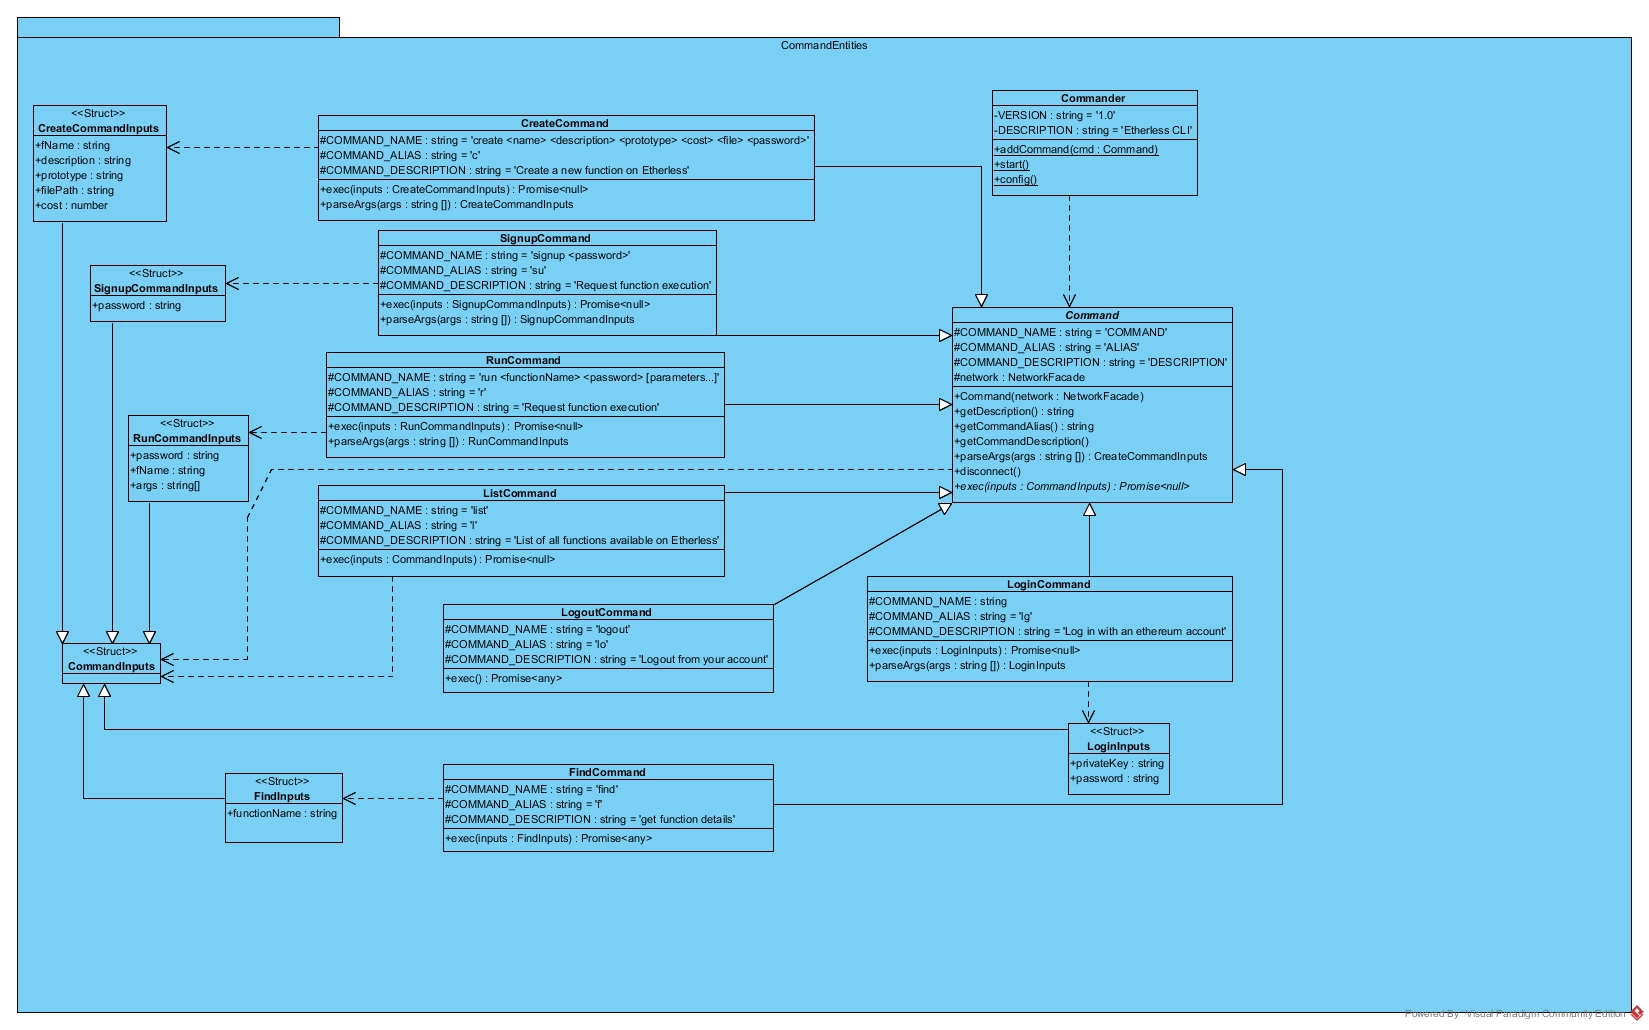
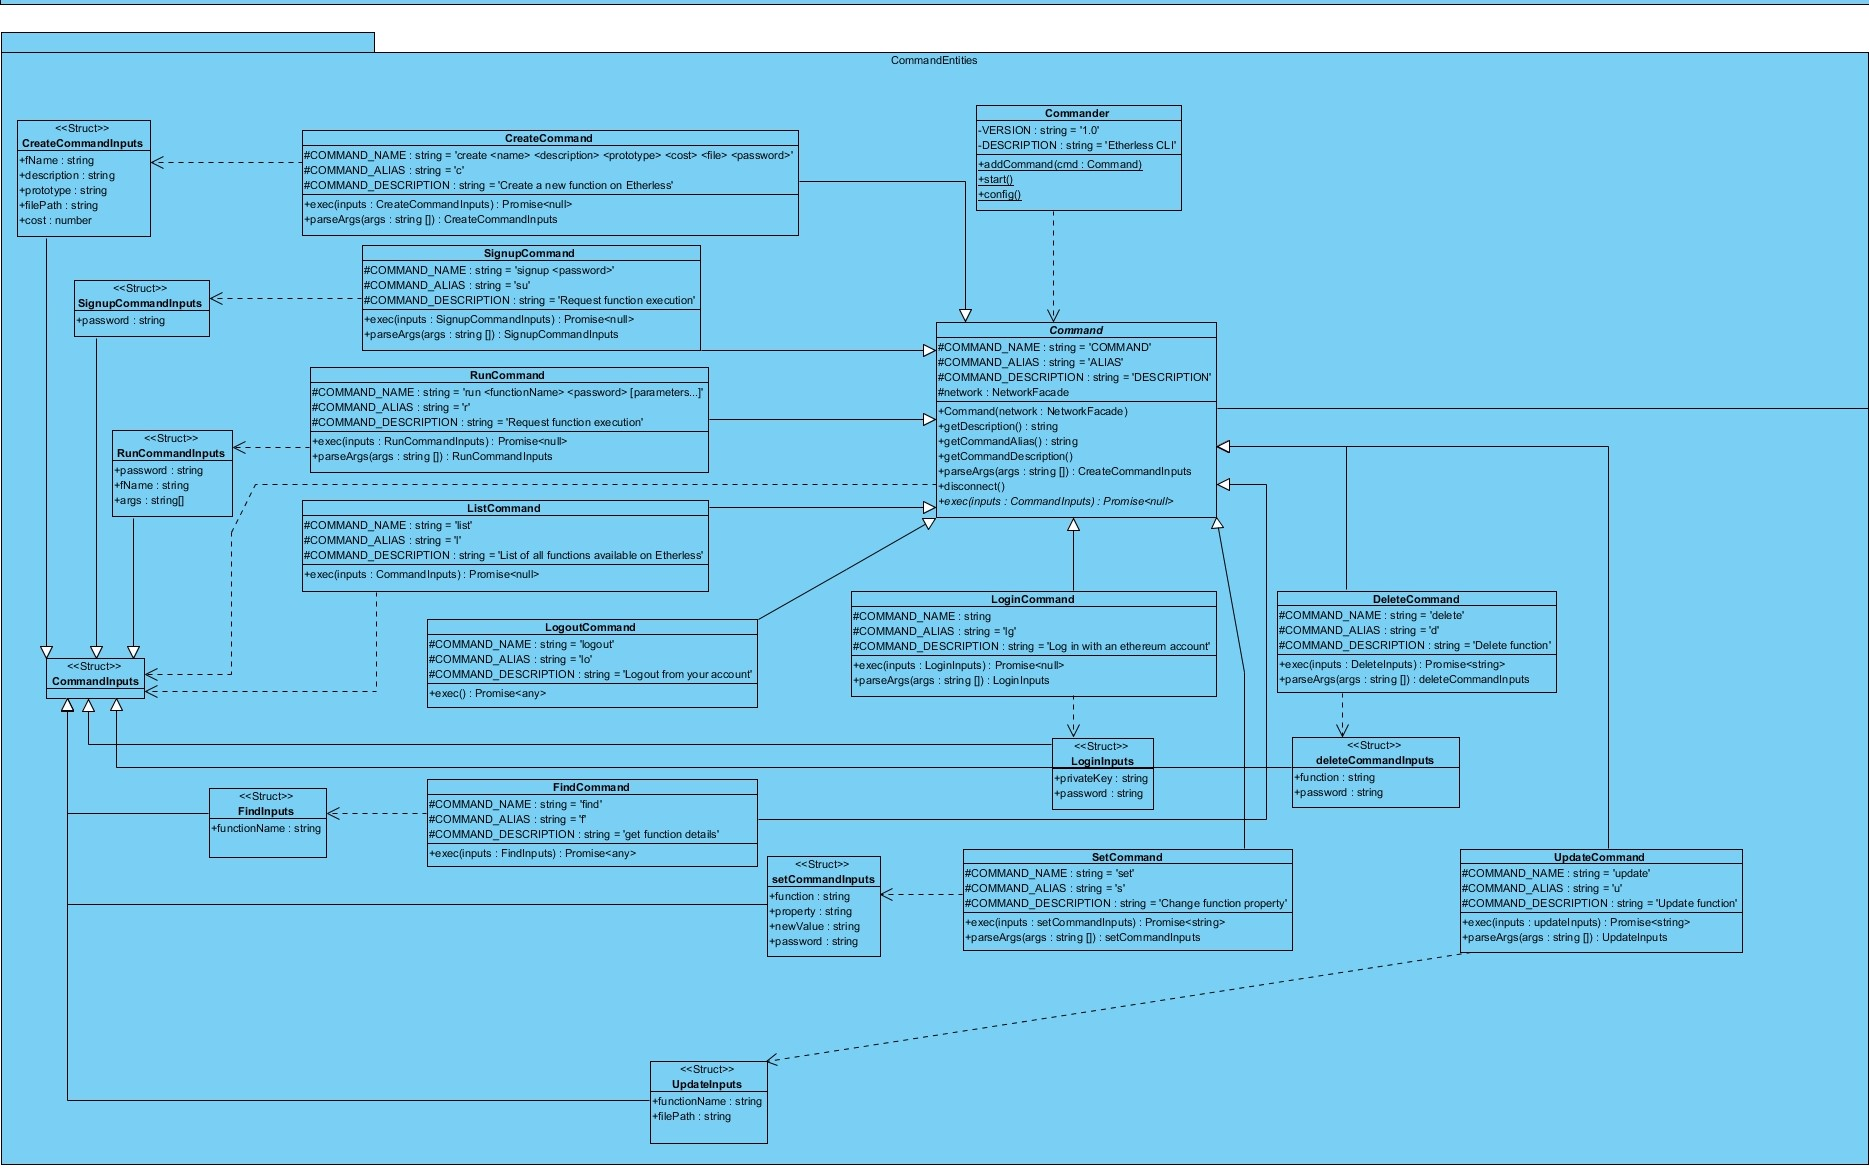
Sistemato developer manual con metodi e diagrammi aggiornati (pronto per RA)

Changed region(s): [[0.0, 0.0, 1.0, 1.0], [0.4948, 0.0932, 0.7113, 0.1864], [0.7732, 0.7146, 0.9278, 0.8078]]

diff --git a/esterni/developerManual/res/sections/etherless-server'sArchitecture.tex b/esterni/developerManual/res/sections/etherless-server'sArchitecture.tex
@@ -15,6 +15,8 @@ Functions module contains all the command functions which are stored on AWS Lamb
 In particular, here will be implemented three files corresponding these three following commands:
 \begin{itemize}
 	\item \textbf{createFunction (FunctionDeployer):} creates a new AWS Lambda function with the JavaScript resource uploaded by developer users from CLI\glo;
+	\item \textbf{deleteFunction (FunctionDestroyer):} deletes an AWS Lambda function already uploaded by the same developer;
+	\item \textbf{updateFunction (FunctionUpdater):} updates an AWS Lambda function already existing on \textit{Etherless};
 	\item \textbf{removeFunction:} deletes the corresponding Lambda function on AWS Lambda;
 	\item \textbf{updateFunction:} used to update the implementation of a function already deployed by a user on AWS Lambda.
 \end{itemize}
@@ -30,21 +32,21 @@ This component runs persistently listening events from Smart Contract deployed o
 
 
 \subsection{Methods}
-\subsubsection{Runner}
-\begin{itemize}
-	\item \textbf{config:} Creates the smart-contract instance downloading the corresponding \textit{ABI\glo} and then calls start method;
-	\item \textbf{start:} Start to listen Ethereum\glo events emitted by Etherless-smart, calls "executeLambdaFunctionMethod" to run the Lambda requested and then returns the response;
-	\item \textbf{getAbi:} retrieves and parses the smart-contract \textit{ABI\glo} from Etherscan;
-	\item \textbf{executeLambdaFunction:} invoke the AWS Lambda function requested;
-	\item \textbf{transactContractMethod:} calls a smart-contract method through a transaction.
-\end{itemize}
-\subsubsection{AWSInstance}
-\begin{itemize}
-	\item \textbf{getLambda:} returns a new AWS Lambda object;
-	\item \textbf{getRuntime:} returns the version of the AWS runtime;
-	\item \textbf{getRole:} returns the AWS Lambda function's execution role;
-	\item \textbf{getTimeout:} returns AWS Lambda function's \textit{timeout\glos}.
-\end{itemize}
+%\subsubsection{Runner}
+%\begin{itemize}
+%	\item \textbf{config:} Creates the smart-contract instance downloading the corresponding \textit{ABI\glo} and then calls start method;
+%	\item \textbf{start:} Start to listen Ethereum\glo events emitted by Etherless-smart, calls "executeLambdaFunctionMethod" to run the Lambda requested and then returns the response;
+%	\item \textbf{getAbi:} retrieves and parses the smart-contract \textit{ABI\glo} from Etherscan;
+%	\item \textbf{executeLambdaFunction:} invoke the AWS Lambda function requested;
+%	\item \textbf{transactContractMethod:} calls a smart-contract method through a transaction.
+%\end{itemize}
+%\subsubsection{AWSInstance}
+%\begin{itemize}
+%	\item \textbf{getLambda:} returns a new AWS Lambda object;
+%	\item \textbf{getRuntime:} returns the version of the AWS runtime;
+%	\item \textbf{getRole:} returns the AWS Lambda function's execution role;
+%	\item \textbf{getTimeout:} returns AWS Lambda function's \textit{timeout\glos}.
+%\end{itemize}
 \subsubsection{Runner}
 \begin{itemize}
 	\item \textbf{config:} Creates the smart-contract instance downloading the corresponding \textit{ABI\glo} and then calls start method;
@@ -55,9 +57,21 @@ This component runs persistently listening events from Smart Contract deployed o
 \end{itemize}
 \subsubsection{FunctionDeployer}
 \begin{itemize}
-	\item \textbf{createFunction:} calls prepareFunctionToStore and uploadFunction methods and then return the upload's result;
-	\item \textbf{uploadFunction} upload effectively a file.js containing the user's function.
-
+	\item \textbf{createFunction:} instantiate the FunctionDeployer class and returns the ARN of deploy;
+	\item \textbf{uploadFunction:}  sends the request to the AWS service and encapsulate it in a promise;
+	\item \textbf{prepareFunctionToStore:} prepare the data structure for the request.        .
+\end{itemize}
+\subsubsection{FunctionDestroyer}
+\begin{itemize}
+	\item \textbf{deleteFunction:} instantiate the class FunctionDestroyer and returns the result;
+	\item \textbf{letFunctionDelete:}  parse the data and sends the delete request;
+	\item \textbf{prepareFunctionToDelete:} prepare the data structure for the request.        .
+\end{itemize}
+\subsubsection{FunctionUpdater}
+\begin{itemize}
+	\item \textbf{updateFunction:} instantiate the class FunctionUpdater and returns the result;
+	\item \textbf{letUpdateFunction:}  prepare and sends the request to the AWS service for the upload of a new function;
+	\item \textbf{prepareFunctionToUpdate:} prepares the data structure for the update.        .
 \end{itemize}
 \subsubsection{Extension}
 Extendability of the etherless-server component can come as a development of the \textit{Runner} or a new function added to the ones available on the serverless functions environment.\\\\Developing a new serverless function means creating its own file and logic and exposing the function itself to the serverless environment. The serverless framework keeps track of all the functions through the .yml configuration file. Adding a to the configuration will mean that on the next deploy, a lambda function will be created and be made pubicly available on the http endpoint.

diff --git a/esterni/developerManual/res/sections/etherless-cli'sArchitecture.tex b/esterni/developerManual/res/sections/etherless-cli'sArchitecture.tex
@@ -46,12 +46,16 @@ Another disadvantage is that if a new developer need a new functionality from an
     \item \textbf{signup}: registers a new user on the system;
     \item \textbf{logon}: logs in a new user;
     \item \textbf{logout}: logs out of the system currently logged user;
+    \item \textbf{getUserAccount:} returns user's credentials;
+    \item \textbf{callFunction:} executes the function on the \textit{Ethereum} network;
+    \item \textbf{createFunction}: uploads on the AWS endpoint the required function and register it on the eth network through the etherless-smart component
 	\item \textbf{getAllLoadedFunction}: returns the list of all available contract methods;
-    \item \textbf{callFunction}: calls the methods of the etherless-smart component; all requests to the smart contract goes through this method;
-    \item \textbf{runFunction}: requests execution of a remote function;
-    \item \textbf{createFunction}: uploads on the AWS endpoint the required function and register it on the eth network through the etherless-smart component;
-    \item \textbf{getPastLog}: return a list of past actions taken by the user;
-    \item \textbf{getCostOfFunction}: retrieves from the smart contract the cost of a specific function loaded on the service;
+	\item \textbf{getFunctionDetails:} retrieves from the smart contract the details about the requested function;
+	\item \textbf{getCostOfFunction}: retrieves from the smart contract the cost of a specific function loaded on the service;
+	\item \textbf{runFunction}: requests execution of a remote function;
+	\item \textbf{setFunctionProperty:} updates function properties like cost, description and prototype;
+	\item \textbf{deleteFunction:} deletes a function;
+	\item \textbf{updateFunction:} updates the user's function;    
     \item \textbf{disconnect}: disconnects the application from the network.
 \end{itemize}
 \paragraph{SessionInterface}
@@ -62,30 +66,30 @@ Another disadvantage is that if a new developer need a new functionality from an
     \item \textbf{signTransaction}: signs the provided transaction with logged user account;
     \item \textbf{isUserSignedIn}: checks if there is a singed in user;
     \item \textbf{getUserAddress}: retrieves the user address;
-    \item \textbf{getBalance}:retrieves the balance of the logged in user account.
+    \item \textbf{getBalance}: retrieves the balance of the logged in user account;
+    \item \textbf{getAccount:} returns the account information.
 \end{itemize}
 \paragraph{ContractInterface}
 \begin{itemize}
-    \item \textbf{getListOfFunctions}: retrieves all the available contract's methods;
-    \item \textbf{getArgumentsOfFunction}: returns all the parameter required to run the requested contract method;
-    \item \textbf{isTheFunctionPayable}: returns weather a contract method is needs to receive ethers or not;
-    \item \textbf{estimateGasCost}: returns an estimate of how much gas is needed to perform a contract method call;
-    \item \textbf{getFunctionTransaction}: builds a transaction object related to a contract method call;
+	\item \textbf{isTheFunctionPayable:} returns if the requested function is payable;
+	\item \textbf{estimateGasCost}: returns an estimate of how much gas is needed to perform a contract method call;
+	\item \textbf{getFunctionTransaction}: builds a transaction object related to a contract method call;
+	\item \textbf{decodeResponse:} get in input the function with the relative output and decode the ABI response;
     \item \textbf{getLog}: returns past actions of the given eth account;
-    \item \textbf{getCallable}: maps a contract method name to a its callable form through the network;
     \item \textbf{getSignal}: start listening for a network event.
 \end{itemize}
 \paragraph{NetworkInterface}
 \begin{itemize}
-    \item \textbf{getListOfFunctions}: retrieves all the available contract's methods;
-    \item \textbf{getArgumentsOfFunction}: returns all the parameter required to run the requested function.
+	\item \textbf{disconnect:} terminate the connection to the provider;
+    \item \textbf{sendTransaction}: this method sends an signed transaction;
+    \item \textbf{callMethod}: used to ask at the contract the execution of non payable methods;
+    \item \textbf{postRequest:} this method is used for postRequest with json body.
 \end{itemize}
 \paragraph{NetworkUtils}
 \begin{itemize}
-    \item \textbf{getEtherlessFacade:}: returns a shared instance of the network interface;
-    \item \textbf{checkABIUpdate}: returns weather there is the need of updating smart contract ABI;
+    \item \textbf{getEtherlessNetworkFacadeInstance:}: initialize the NetworkFacade and returns an instance;
     \item \textbf{updateABI}: gets an updated copy of the contract ABI from a remote source;
-    \item \textbf{getABIFromFile}: returns a contract ABI retrieved from a local file.
+    \item \textbf{getAbi}: checks if the ABI is due for an update or returs the local one.
 \end{itemize}
 \newpage
 \subsection{Command Entities}

diff --git a/esterni/developerManual/res/sections/etherless-smart'sArchitecture.tex b/esterni/developerManual/res/sections/etherless-smart'sArchitecture.tex
@@ -26,7 +26,10 @@ Each contract class is composed by a set of methods.
 	\item \textbf{listFunctions:} returns a structured list of all functions available and the all associated information;
 	\item \textbf{findFunction:} returns all according information in regards to a single function, identified by its name;
 	\item \textbf{createFunction:} handles the creation of a new function by checking all input requirements and sending it into the storage;
-	\item \textbf{runFunctions:} handles the request of a function execution requested by a user; it's a payable function, which means credits will credited to the contract from the caller wallet;
+	\item \textbf{runFunction:} handles the request of a function execution requested by a user; it's a payable function, which means credits will credited to the contract from the caller wallet;
+	\item \textbf{setFunctionProperty:} updates a given property of a function to a new value. Only function owners can change properties;
+	\item \textbf{deleteFunction:} deletes a function from the storage. Only function owners can delete their functions;
+	\item \textbf{getArn:} return the remote resource identifier. Only function owners can request the resource identifier for their functions;
 	\item \textbf{moveCurrencies:} when a function execution is requested, this method will handle credit split between the involved parties;
 	\item \textbf{sendResponse:} an entry point for our server component which is used to forward a function request result to the client side;
 	\item \textbf{costOfFunction:} returns the cost of a given function, identified by its name; necessary to identify the amount of credits that need to be sent out while requesting execution;
@@ -40,7 +43,11 @@ Each contract class is composed by a set of methods.
 	\item \textbf{existsFunction:} checks if a function with a given name is available in the storage;
 	\item \textbf{storeFunction:} stores a function by setting accordingly values inside the storage properties;
 	\item \textbf{getFunctions:} returns a list of all stored functions;
+	\item \textbf{setFunctionProperty:} updates a function property;
+	\item \textbf{ifPropertyExists:} checks if a given propery name matches one that is part of the function;
 	\item \textbf{costOfFunction:}  returns the cost of a function;
+	\item \textbf{findIndexName:} searches for the position of a function;
+	\item \textbf{deleteFunction:} removes a function from the storage permanently. 
 	\item \textbf{buildFunction:} a utility method for properly formatting a function data structure.
 \end{itemize}
 \subsubsection{Utils}
@@ -48,6 +55,7 @@ Each contract class is composed by a set of methods.
 	\item \textbf{compareStrings:} compares to strings and returns whether they are the same or not;
 	\item \textbf{concat:} returns a string by concatenating one after the other;
 	\item \textbf{uint2string:} returns a string representation of and integer.
+	\item \textbf{stringToUint:} return an integer rapresentation of the given string;
 \end{itemize}
 \subsubsection{Extensions}
 Three main areas can be defined for further extendability:
